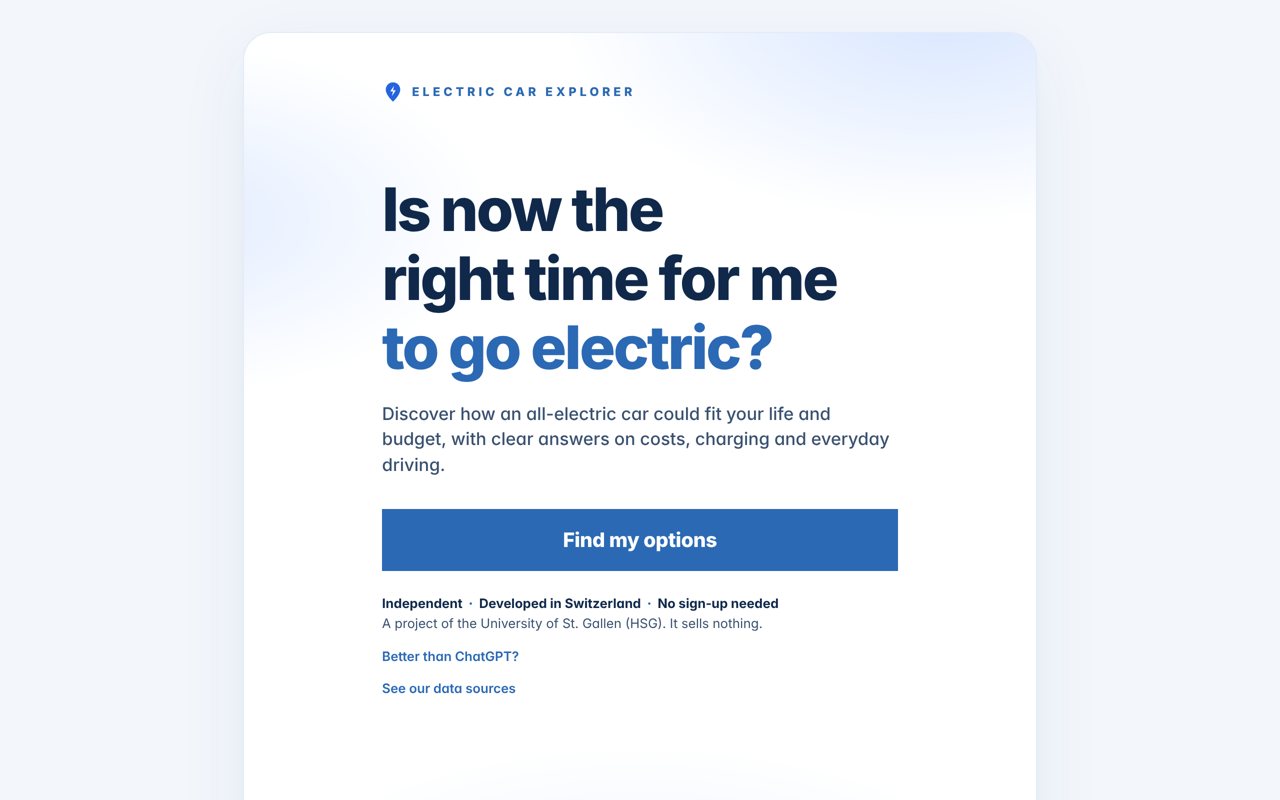
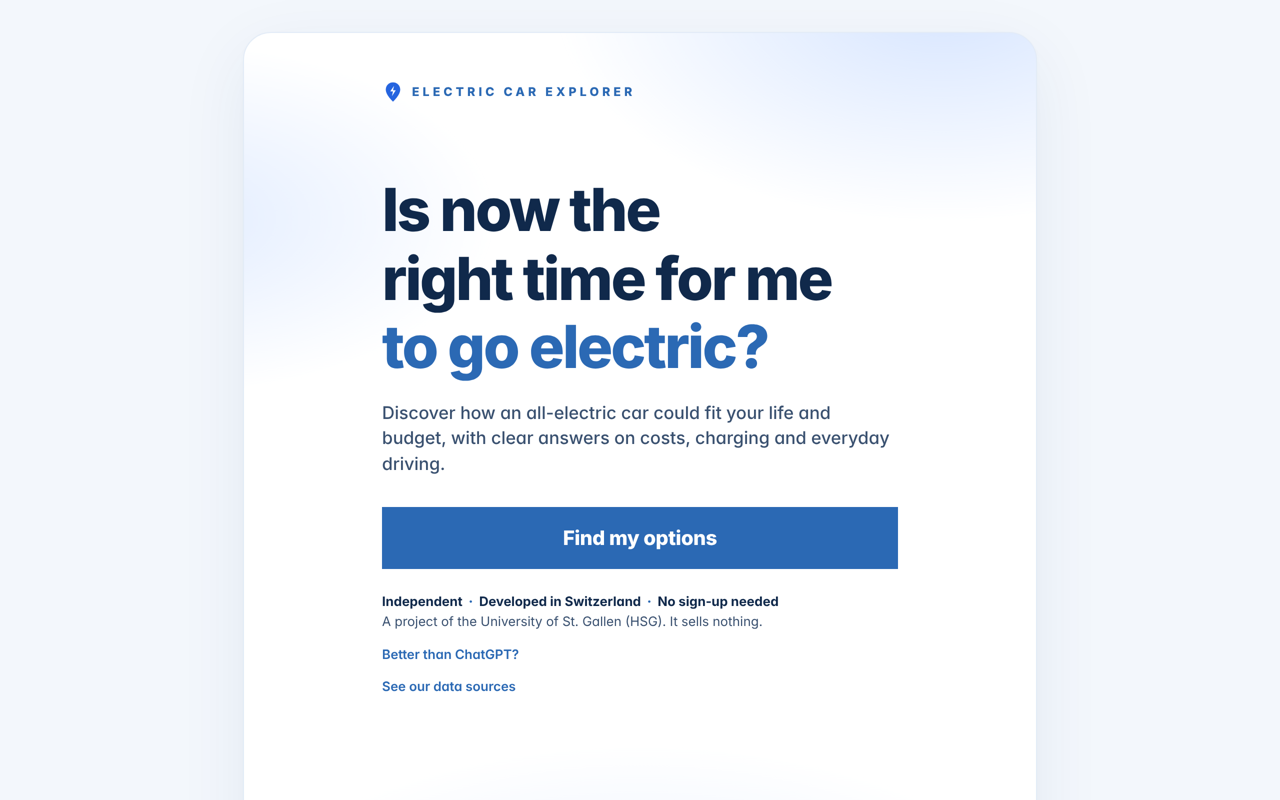
Preview: start question sized to its frame (no cut lines at ~600 px); audit check N-03g
Claude-Session: https://claude.ai/code/session_01QfXkZPsFQrszAqzjhxXKhu

diff --git a/public/preview/index.html b/public/preview/index.html
@@ -1668,7 +1668,7 @@ a.dsname:hover .ul, a.dsname:focus-visible .ul { color: var(--accent); backgroun
 .landing { box-sizing: border-box; min-height: 100svh; display: flex; flex-direction: column; width: 100%; max-width: 560px; margin: 0 auto;
   padding: max(20px, env(safe-area-inset-top)) 22px max(20px, env(safe-area-inset-bottom)); }
 .lp-mask { overflow: hidden; }
-.lp7 .lp-claim7 { font-size: clamp(32px, 9vw, 60px); line-height: 1.04; letter-spacing: -0.035em; text-transform: none; }
+.lp7 .lp-claim7 { font-size: clamp(28px, 11.5cqi, 60px); line-height: 1.04; letter-spacing: -0.035em; text-transform: none; }
 .lp7 details.datasrc.lp-src > summary { justify-content: flex-start; }
 .lp-trust .dot { margin: 0 6px; color: var(--accent); font-weight: 800; }
 .lp7 .lp-claim7 .lp-line .lp-word { color: var(--ink); }

diff --git a/ui-loop/tools/feedback_audit.js b/ui-loop/tools/feedback_audit.js
@@ -20,6 +20,8 @@ const { open, FX } = require('./harness.js');
   check('N-03d no "No personal data stored" claim', !/No personal data stored/i.test(lp));
   check('N-03e name Electric Car Explorer visible', /ELECTRIC CAR EXPLORER/i.test(lp));
   check('N-03f no horizontal overflow (landing)', (await overflow()) <= 1, await overflow());
+  const fit = await ev(() => { const c = document.querySelector('.lp-claim7'); return Math.max(...[...c.querySelectorAll('.lp-word')].map((w) => w.getBoundingClientRect().right)) - c.getBoundingClientRect().right; });
+  check('N-03g question lines not cut', fit <= 1, fit);
 
   // ---- N-04 Topic screen (slide 4)
   await ev(() => { go('home'); }); await page.waitForTimeout(500);
